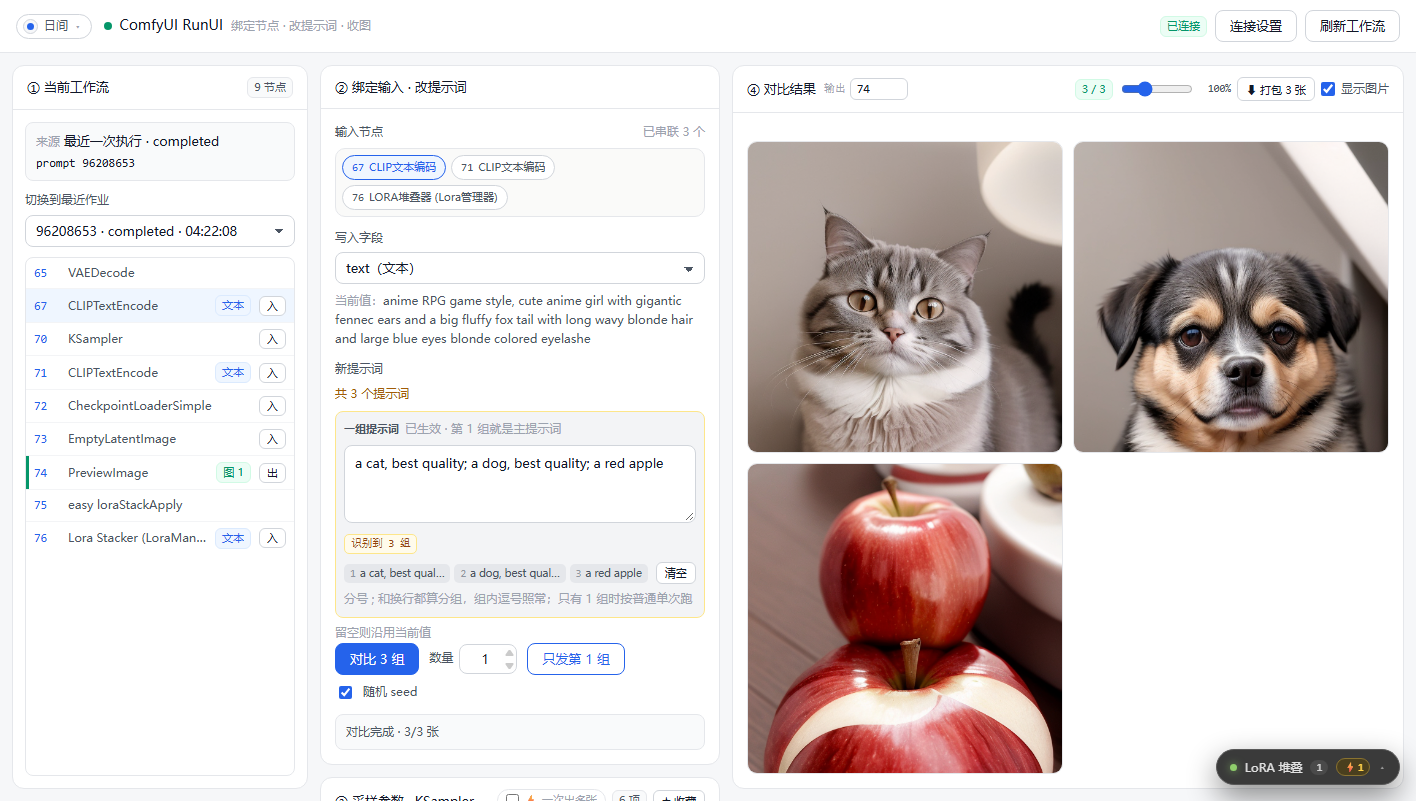
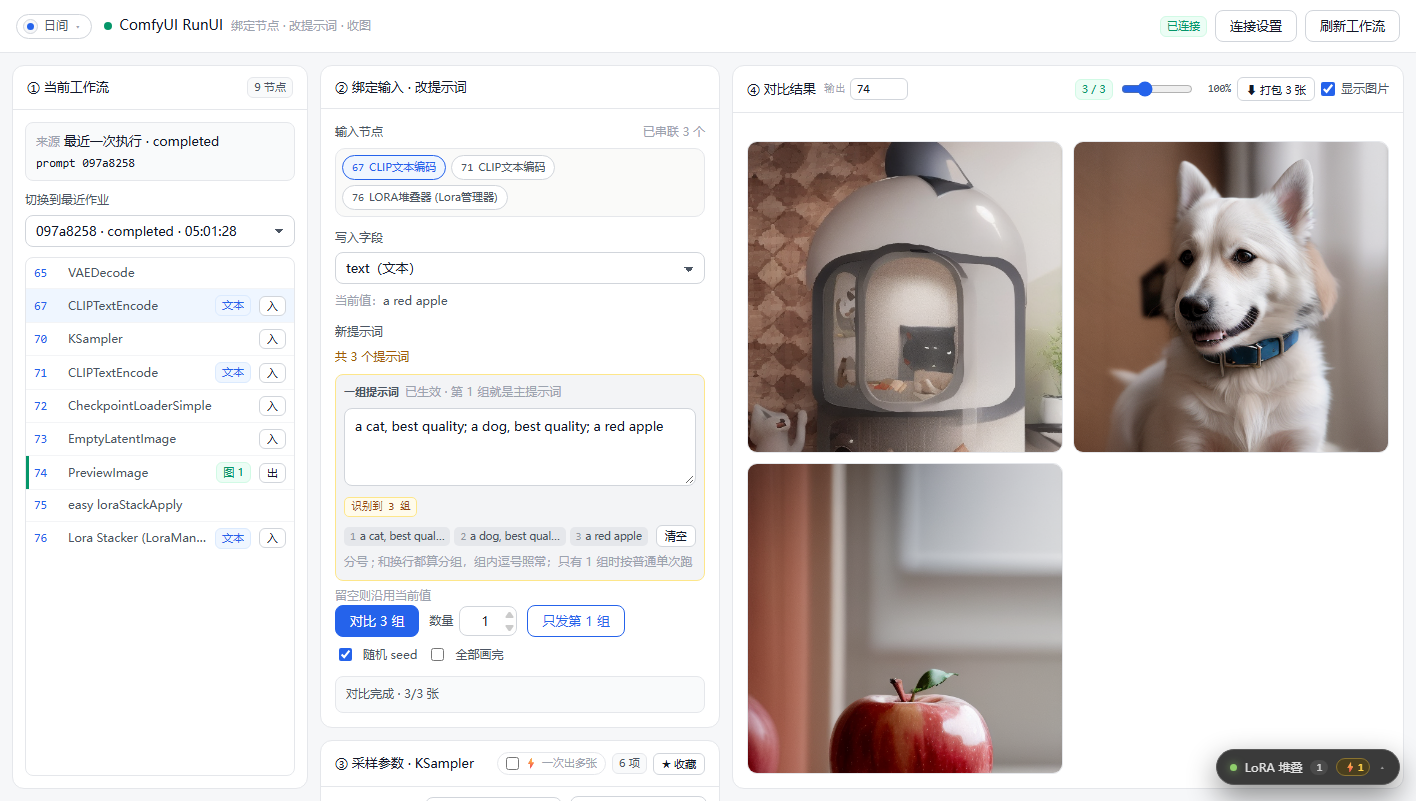
add

diff --git a/runui/src/App.vue b/runui/src/App.vue
@@ -56,6 +56,8 @@ const state = reactive({
   // /object_info 缓存：{ class_type: { 字段: [候选值] } }
   nodeOptions: {},
   randomSeed: true,
+  // 一组提示词：等全部画完再一起出图（关掉则画一张显示一张）
+  waitAll: localStorage.getItem('runui.waitAll') !== '0',
   sendCount: 1,
   samplerId: '',
   samplerParams: {},
@@ -822,7 +824,7 @@ const multiDims = computed(() => {
 /** 对比按钮文案：文本多值时是「几组 × 每组几张」 */
 const batchBtnLabel = computed(() => {
   if (state.comparing) return `对比中 ${state.progress.done}/${state.progress.total}`
-  if (!xyUsable.value) return `对比 ${variants.value.length} 组`
+  if (!xyActive.value) return `对比 ${variants.value.length} 组`
   return `⚡ 一次出 ${xyCount.value} 张`
 })
 
@@ -871,6 +873,14 @@ const xyReady = computed(() => {
   return xyHasParams.value || xyPromptTexts.value.length > 1
 })
 const xyUsable = computed(() => state.xyMode && xyReady.value)
+/**
+ * 值得用 XY 的情况：有数值轴要多扫（组内 N 档）。
+ * 只有提示词多值时 XY 没有意义——ComfyUI 要等整轮跑完才一次性交出所有图，
+ * 反而看不到「画完一张显示一张」，所以那种情况直接走串行，逐张出。
+ */
+const xyWorth = computed(() => xyUsable.value && xyHasParams.value)
+/** 真的走一次请求：有数值轴要扫，且「全部画完」开着（关掉就逐张出） */
+const xyActive = computed(() => xyWorth.value && state.waitAll)
 /** 一次请求总共出几张 */
 const xyCount = computed(
   () =>
@@ -901,6 +911,10 @@ watch(
 watch(
   () => state.xyAxis,
   (v) => localStorage.setItem('runui.xyAxis', v || '')
+)
+watch(
+  () => state.waitAll,
+  (v) => localStorage.setItem('runui.waitAll', v ? '1' : '0')
 )
 
 
@@ -1390,8 +1404,8 @@ async function sendBatch() {
   const list = variants.value
   if (!list.length || !canSend.value) return
 
-  // 极速对比：能走 XY 就只发一次请求（文本多值按组串行），失败再回退串行
-  if (xyUsable.value) {
+  // 极速对比：数值轴要多扫时才用 XY；只有提示词多值时走串行，逐张出图
+  if (xyActive.value) {
     try {
       await runXy(list)
       return
@@ -1421,6 +1435,9 @@ async function sendBatch() {
 
   // 一批只抽一次种子：批内可比，点一次换一批
   const seedUsed = batchSeed()
+  // 「全部画完」开着时先把图攒着，跑完再一起贴出来；关掉就画一张贴一张
+  const waitAll = state.waitAll
+  const held = []
   try {
     for (let i = 0; i < list.length; i += 1) {
       if (state.stopFlag) {
@@ -1437,21 +1454,31 @@ async function sendBatch() {
         state.runPromptId = resp.prompt_id
         if (state.stopFlag) await stopRun()
         const { images } = await waitImages(resp.prompt_id)
-        r.images = images
-        r.status = images.length ? 'done' : 'empty'
+        if (waitAll) held.push({ r, images })
+        else {
+          r.images = images
+          r.status = images.length ? 'done' : 'empty'
+        }
       } catch (err) {
         r.status = 'error'
         r.error = err.message || String(err)
       }
       r.ms = Date.now() - started
       state.progress.done = i + 1
-      state.message = `对比中 ${i + 1}/${list.length}`
+      state.message = waitAll
+        ? `画第 ${i + 1}/${list.length} 组…（全部画完再一起出图）`
+        : `对比中 ${i + 1}/${list.length}`
+    }
+  } finally {
+    // 攒着的图一次性贴出来（中途停止也把已经画好的贴上，别白跑）
+    for (const { r, images } of held) {
+      r.images = images
+      r.status = images.length ? 'done' : 'empty'
     }
     const ok = state.results.filter((x) => x.images.length).length
     state.message = state.stopFlag
       ? `已停止 · 完成 ${ok}/${list.length} 张`
       : `对比完成 · ${ok}/${list.length} 张`
-  } finally {
     state.comparing = false
   }
 }
@@ -2287,6 +2314,15 @@ onUnmounted(() => {
               <input v-model="state.randomSeed" type="checkbox" />
               <span>随机 seed</span>
             </label>
+            <!-- 一组提示词：默认等全部画完再一起出图；关掉就画一张显示一张 -->
+            <label
+              class="check"
+              style="margin: 0"
+              title="开：这一批全部画完再一起出图；关：每画完一张就立刻显示"
+            >
+              <input v-model="state.waitAll" type="checkbox" />
+              <span>全部画完</span>
+            </label>
             <span class="hint" v-if="state.running && !state.comparing">执行中 · {{ state.elapsed }}s</span>
           </div>
 
@@ -2357,7 +2393,13 @@ onUnmounted(() => {
                 {{ Object.keys(XY_AXIS_LABEL).join(' / ') }}
                 里某一项点 + 加几个值，或在左边再加几个提示词
               </span>
-              <span v-if="xyUsable" class="xy-count">一次请求出 {{ xyCount }} 张</span>
+              <span v-if="xyActive" class="xy-count">一次请求出 {{ xyCount }} 张</span>
+              <span v-else-if="xyWorth" class="xy-count">
+                「全部画完」关着 · 一组一组画，逐张出图
+              </span>
+              <span v-else-if="xyUsable" class="xy-count">
+                没有数值轴要多扫 · 按提示词逐张出图
+              </span>
             </div>
             <p
               v-if="state.xyMode && xyPromptTexts.length > 1 && !xyPromptCheck.ok"

diff --git a/runui/dist/index.html b/runui/dist/index.html
@@ -9,8 +9,8 @@
         document.documentElement.dataset.theme = localStorage.getItem('runui.theme') || 'day'
       } catch (e) {}
     </script>
-    <script type="module" crossorigin src="./assets/index-SqPfM82r.js"></script>
-    <link rel="stylesheet" crossorigin href="./assets/index-CmD272Bm.css">
+    <script type="module" crossorigin src="./assets/index-CWUup43y.js"></script>
+    <link rel="stylesheet" crossorigin href="./assets/index-C4_Gn75l.css">
   </head>
   <body>
     <div id="app"></div>

diff --git a/runui/README.md b/runui/README.md
@@ -105,6 +105,10 @@ ComfyUI 请求的路径没变（还是 `I:\loras\...`），真正读的却是快
 - 发送区的按钮从 `对比 N 组` 变成 **`⚡ 一次出 N 张`**，点它只发**一次** `/prompt`。
 - 结果区和串行一样横排，每张标着对应的取值。
 
+> **只有提示词多值时不会走 XY**：ComfyUI 要等整轮跑完才把图一次性交出来（WebSocket 的
+> `executed` 最后只推一次，带一整批图），看着就像「卡着不出图」。所以这种情况自动退回串行，
+> **画完一张显示一张**；实测纯提示词 3 组串行（1.9s/张）比 XY 一次出还快一点。
+
 ### 怎么适配「任意工作流」
 
 不用手工加节点 —— 提交前在副本上自动改造（`src/xy.js`）：
@@ -131,6 +135,11 @@ ComfyUI 请求的路径没变（还是 `I:\loras\...`），真正读的却是快
 这个框不需要开关：**只要不为空就自动生效**（边框从虚线变实线，标题显示「已生效」），
 第 1 组就是主提示词，主输入框和额外框会自动收起；清空后回到单框输入。
 组内容按字段各存一份，切走再切回来还在。
+
+发送区「随机 seed」旁边有 **全部画完**（默认开）控制出图时机：
+
+- **开**：这一批全部画完再一起贴出来（走 XY 时就是一次请求出完；纯提示词多值时也会攒到最后）；
+- **关**：一组一组画，**画完一张显示一张**（实测 3 组：2.0s / 4.0s / 6.1s 各出一张）。
 
 多个提示词和多个数值参数会摆成 **2D 网格，一次请求出完**：
 
